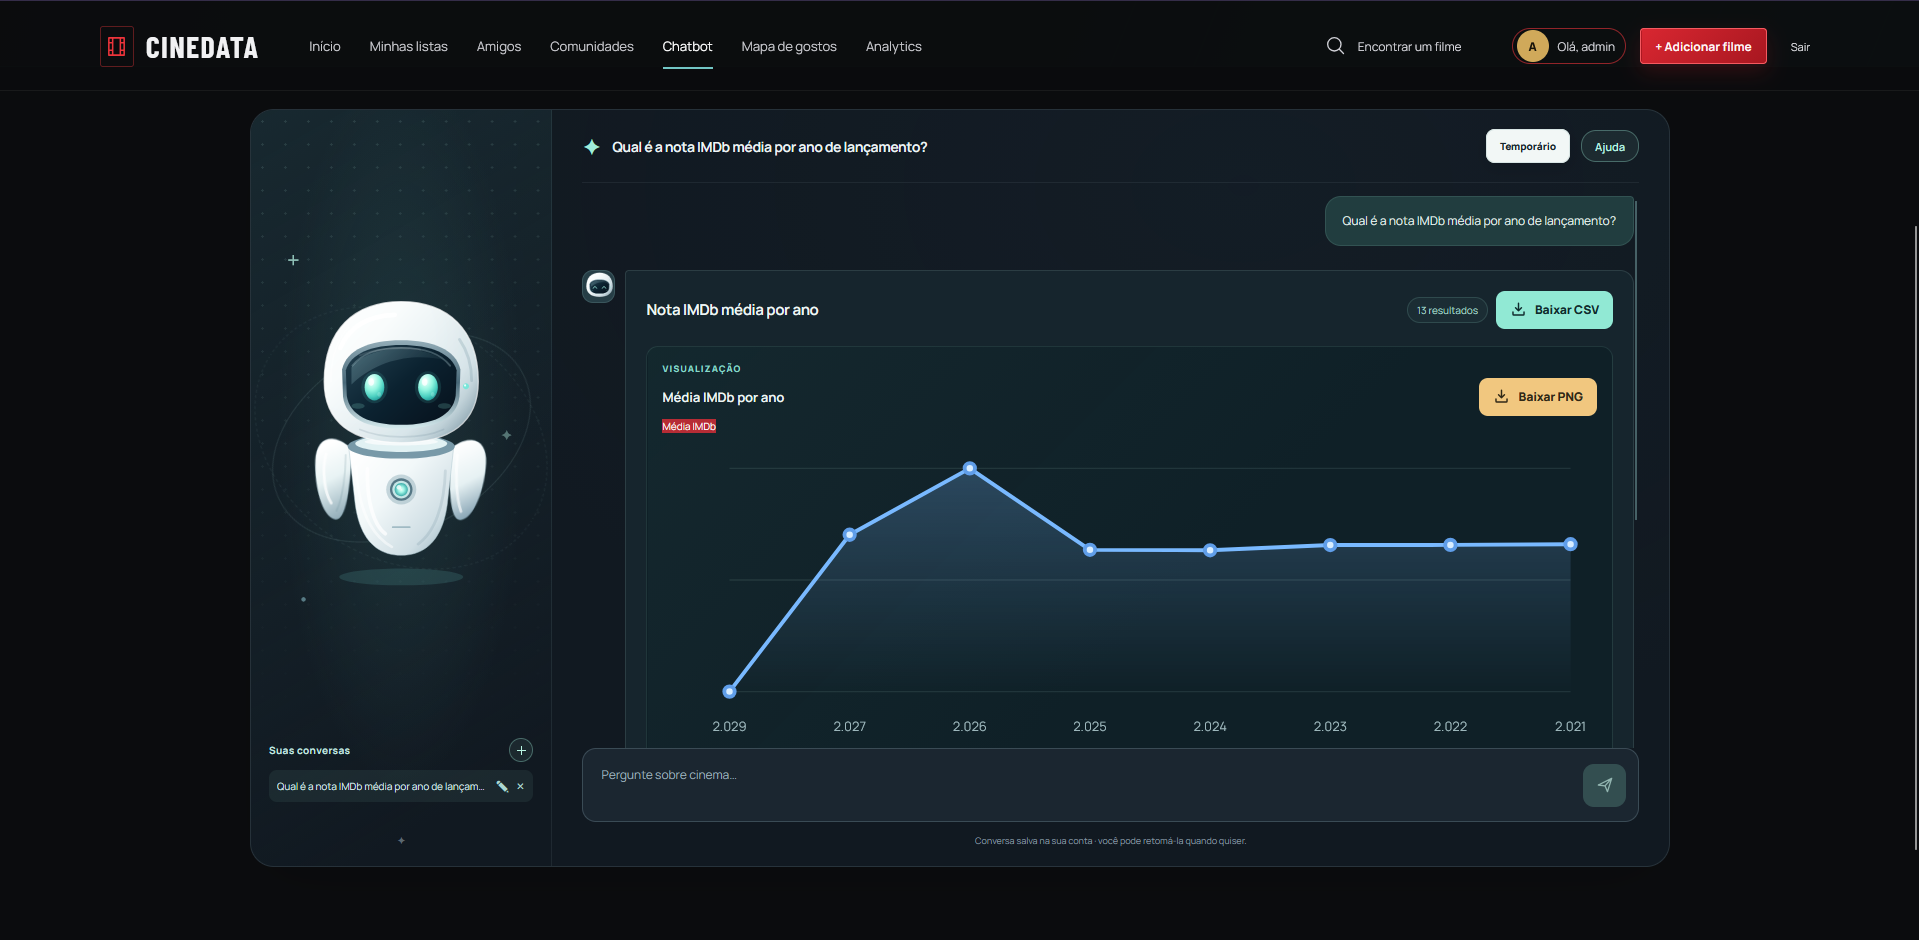
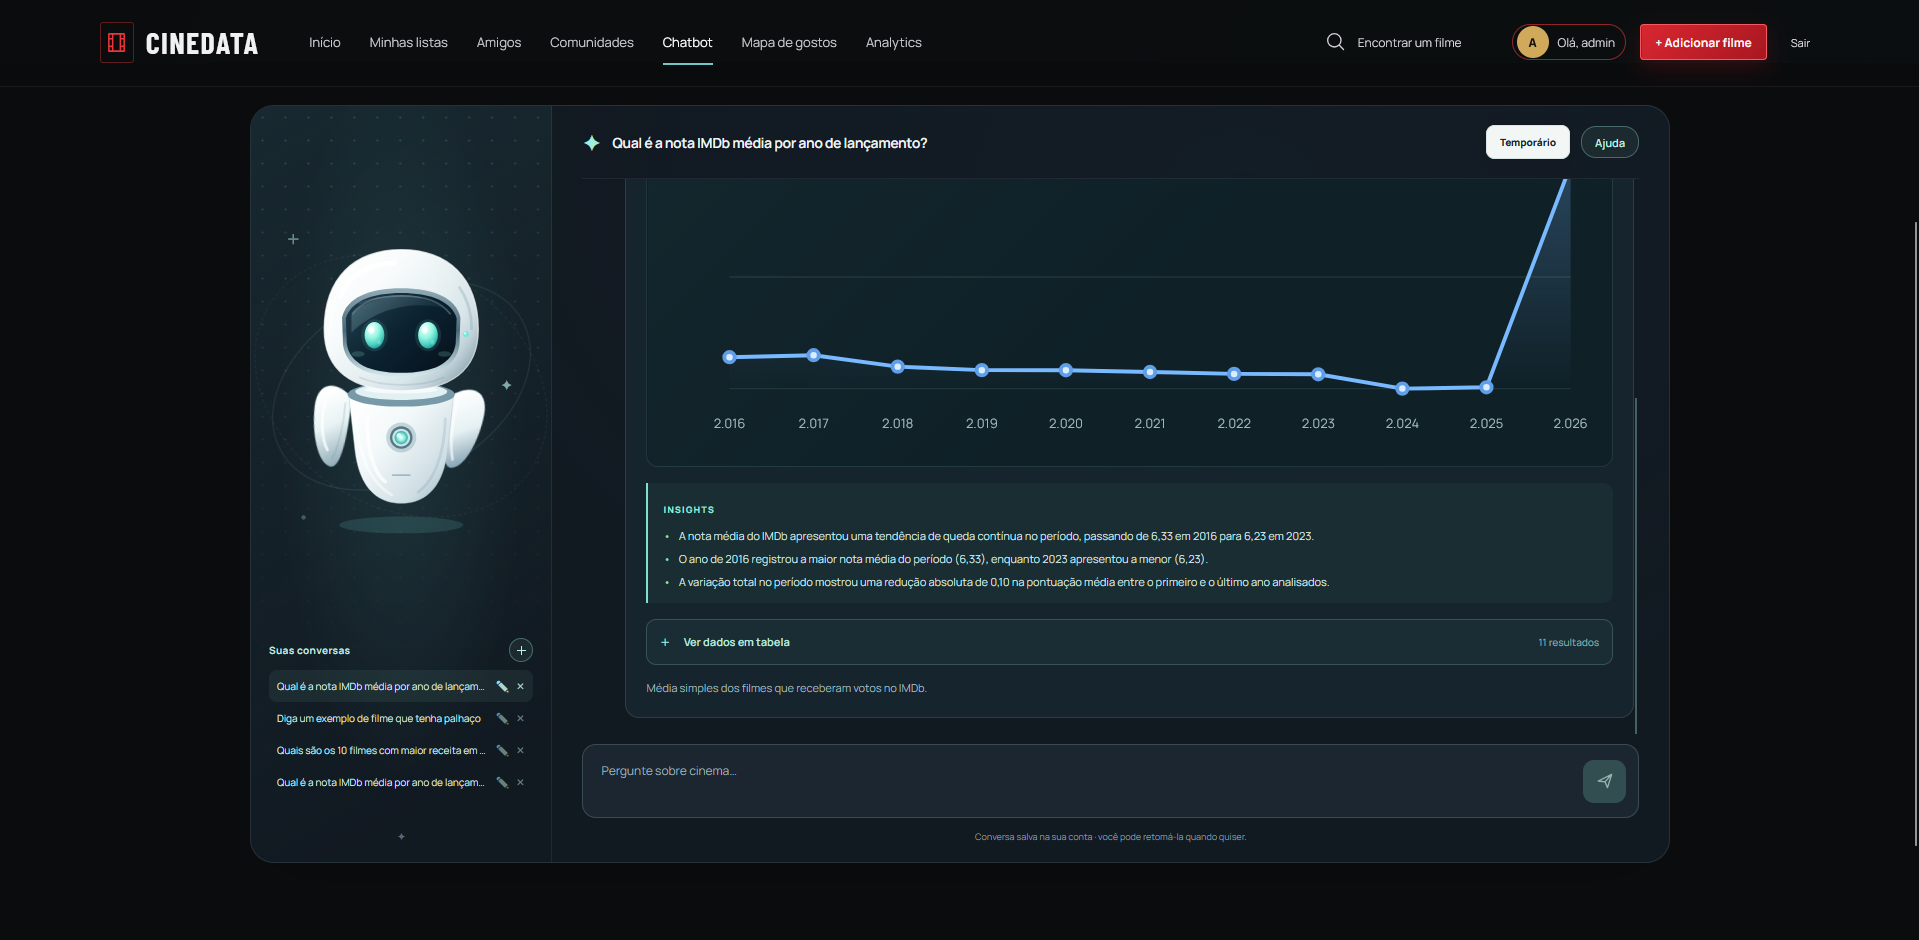
fix(genai): corrige série histórica da nota IMDb
- exclui lançamentos futuros da média anual do IMDb
- usa consulta preparada e ordem cronológica para a Q06
- reforça a ordenação e a quantidade de pontos no gráfico de linha
- atualiza referências, regras e cobertura da avaliação

diff --git a/frontend/src/components/ChatbotResultChart.tsx b/frontend/src/components/ChatbotResultChart.tsx
@@ -222,12 +222,16 @@ export function ChatbotResultChart({ metadata, rows }: { metadata: MetadadosGenA
   const [erroExportacao, setErroExportacao] = useState('')
   if (!spec) return null
   const specForExport = spec
+  const maxPontos = spec.tipo === 'linha' ? 16 : 8
   const pontos = rows.flatMap((row) => {
     const valor = numero(row[spec.colunaValor])
     if (valor === null || row[spec.colunaRotulo] === undefined || row[spec.colunaRotulo] === null) return []
     return [{ rotulo: formatarCelula(spec.colunaRotulo, row[spec.colunaRotulo]), valor }]
-  }).slice(0, 8)
+  }).slice(0, maxPontos)
   if (pontos.length < 2) return null
+  const pontosOrdenados = spec.tipo === 'linha' && spec.colunaRotulo === 'ano_lancamento'
+    ? [...pontos].sort((esquerda, direita) => Number(esquerda.rotulo) - Number(direita.rotulo))
+    : pontos
 
   async function exportarPng() {
     if (!chart.current) return
@@ -248,9 +252,9 @@ export function ChatbotResultChart({ metadata, rows }: { metadata: MetadadosGenA
       <div><strong>{spec.titulo}</strong><button className="chatbot-export-png" type="button" onClick={() => void exportarPng()} disabled={exportando}><svg viewBox="0 0 20 20" fill="none" aria-hidden="true"><path d="M10 2.5v9m0 0 3.5-3.5M10 11.5 6.5 8M3.5 13v2.5c0 .55.45 1 1 1h11c.55 0 1-.45 1-1V13" stroke="currentColor" strokeWidth="1.7" strokeLinecap="round" strokeLinejoin="round" /></svg>{exportando ? 'Gerando…' : 'Baixar PNG'}</button></div>
       <small>{rotuloColuna(spec.colunaValor, metadata)}</small>
     </figcaption>
-    {spec.tipo === 'linha' && <GraficoDeLinha pontos={pontos} spec={spec} />}
-    {spec.tipo === 'barras' && <GraficoDeBarras pontos={pontos} spec={spec} />}
-    {spec.tipo === 'rosca' && <GraficoDeRosca pontos={pontos} spec={spec} />}
+    {spec.tipo === 'linha' && <GraficoDeLinha pontos={pontosOrdenados} spec={spec} />}
+    {spec.tipo === 'barras' && <GraficoDeBarras pontos={pontosOrdenados} spec={spec} />}
+    {spec.tipo === 'rosca' && <GraficoDeRosca pontos={pontosOrdenados} spec={spec} />}
     {spec.tipo === 'dispersao' && <GraficoDeDispersao rows={rows} spec={spec} metadata={metadata} />}
     {rows.length > pontos.length && <p>O gráfico mostra os primeiros {pontos.length} resultados; a tabela contém a lista completa.</p>}
     {erroExportacao && <p className="chatbot-chart-export-error" role="alert">{erroExportacao}</p>}

diff --git a/frontend/src/components/ChatbotResultChart.test.tsx b/frontend/src/components/ChatbotResultChart.test.tsx
@@ -57,4 +57,23 @@ describe('ChatbotResultChart', () => {
     expect(temGraficoDeResultado(genericMetadata, rows)).toBe(true)
     expect(screen.getByRole('img', { name: /Indice personalizado por Categoria/i })).toBeInTheDocument()
   })
+
+  it('organiza a série anual em ordem cronológica mesmo se a resposta chegar invertida', () => {
+    const yearlyMetadata = {
+      ...metadata,
+      query_id: 'Q06',
+      columns: ['ano_lancamento', 'filmes_validos', 'nota_imdb_media'],
+    }
+    const rows = [
+      { ano_lancamento: 2026, filmes_validos: 12, nota_imdb_media: 7.3 },
+      { ano_lancamento: 2024, filmes_validos: 18, nota_imdb_media: 7.1 },
+      { ano_lancamento: 2025, filmes_validos: 15, nota_imdb_media: 7.2 },
+    ]
+
+    const { container } = render(<ChatbotResultChart metadata={yearlyMetadata} rows={rows} />)
+
+    expect(
+      [...container.querySelectorAll('.chatbot-chart-x-label')].map((label) => label.textContent),
+    ).toEqual(['2024', '2025', '2026'])
+  })
 })

diff --git a/genai/tests/test_agent.py b/genai/tests/test_agent.py
@@ -211,6 +211,41 @@ def test_agent_executes_one_tool_call_and_returns_rows(tmp_path) -> None:
     assert "nunca como a quantidade qtd_imdb" in model.calls[0][0][0]["content"]
 
 
+def test_imdb_average_by_year_excludes_future_releases_and_is_chronological(tmp_path) -> None:
+    database_path = tmp_path / "gold.db"
+    today = date.today()
+    past_year = today.year - 2
+    future_year = today.year + 2
+    with sqlite3.connect(database_path) as connection:
+        connection.execute(
+            "CREATE TABLE dim_movies (sk_movie_id TEXT, ano_lancamento INTEGER, data_lancamento TEXT)"
+        )
+        connection.execute(
+            "CREATE TABLE fact_movies_performance (sk_movie_id TEXT, nota_imdb REAL, qtd_imdb INTEGER)"
+        )
+        connection.executemany(
+            "INSERT INTO dim_movies VALUES (?, ?, ?)",
+            (
+                ("past", past_year, f"{past_year}-06-15"),
+                ("current", today.year, today.isoformat()),
+                ("future", future_year, f"{future_year}-01-01"),
+            ),
+        )
+        connection.executemany(
+            "INSERT INTO fact_movies_performance VALUES (?, ?, ?)",
+            (("past", 7.0, 10), ("current", 8.0, 20), ("future", 9.0, 30)),
+        )
+    model = FakeModel([])
+
+    response = AgentService(
+        model, GoldQueryExecutor(GoldDatabase(database_path))
+    ).answer("Qual é a nota IMDb média por ano de lançamento?")
+
+    assert [row["ano_lancamento"] for row in response.rows] == [past_year, today.year]
+    assert response.query_id == "Q06"
+    assert model.calls == []
+
+
 def test_agent_sends_only_semantic_context_for_a_follow_up_question(tmp_path) -> None:
     database_path = tmp_path / "gold.db"
     _create_gold_fixture(database_path)

diff --git a/genai/app/agent.py b/genai/app/agent.py
@@ -860,6 +860,19 @@ GROUP BY g.sk_genre_id, g.nome_genero
 ORDER BY total_filmes DESC, g.nome_genero COLLATE NOCASE, g.sk_genre_id"""
 
 
+_IMDB_AVERAGE_BY_YEAR_SQL = """SELECT m.ano_lancamento,
+       COUNT(*) AS filmes_validos,
+       AVG(f.nota_imdb) AS nota_imdb_media
+FROM dim_movies AS m
+JOIN fact_movies_performance AS f USING (sk_movie_id)
+WHERE m.ano_lancamento IS NOT NULL
+  AND m.data_lancamento <= date('now')
+  AND f.nota_imdb IS NOT NULL
+  AND f.qtd_imdb > 0
+GROUP BY m.ano_lancamento
+ORDER BY m.ano_lancamento ASC"""
+
+
 def _top_company_profit_by_year_sql(year: int) -> str:
     """Mantém a consulta de Q11 pequena quando uma continuação troca só o ano."""
 
@@ -1041,6 +1054,11 @@ class AgentService:
             semantic_matches and _REVENUE_INTENT.search(normalized_question)
         )
         evaluation_case = find_evaluation_case(normalized_question)
+        imdb_average_by_year = (
+            not mixed_intent
+            and evaluation_case is not None
+            and evaluation_case.query_id == "Q06"
+        )
         ranking_limit = None if mixed_intent else _popularity_rank_limit(normalized_question)
         director_average = (
             not mixed_intent
@@ -1097,6 +1115,9 @@ class AgentService:
         elif genre_movie_count:
             evaluation_case = get_evaluation_case("Q10")
             query = _GENRE_MOVIE_COUNT_SQL
+            model_seconds = 0.0
+        elif imdb_average_by_year:
+            query = _IMDB_AVERAGE_BY_YEAR_SQL
             model_seconds = 0.0
         elif top_company_count is not None:
             evaluation_case = None

diff --git a/genai/app/evaluation_cases.py b/genai/app/evaluation_cases.py
@@ -83,9 +83,14 @@ MANDATORY_EVALUATIONS: tuple[EvaluationCase, ...] = (
         ("ano_lancamento", "filmes_validos", "nota_imdb_media"),
         metric="média IMDb por ano de lançamento",
         unit="pontuação em escala de 0 a 10",
-        period="anos presentes no Gold",
-        population="filmes com nota_imdb não nula e qtd_imdb positiva",
-        limitations="média simples por filme e quantidade de filmes válidos informada por ano",
+        period="do primeiro lançamento disponível até a data atual",
+        population=(
+            "filmes lançados até a data atual com nota_imdb não nula e qtd_imdb positiva"
+        ),
+        limitations=(
+            "média simples por filme; lançamentos futuros são excluídos e a quantidade "
+            "de filmes válidos é informada por ano"
+        ),
     ),
     EvaluationCase(
         "Q07",

diff --git a/docs/genai/metric-rules.md b/docs/genai/metric-rules.md
@@ -66,7 +66,7 @@ fornecida pela fonte.
 | Maiores margens | Uma linha por filme elegível à margem; ordenar a fração de margem decrescente. |
 | Top 5 mais populares | `popularidade` não nula; zero é mantido como valor. A pontuação do Gold não é uma contagem real de visualizações. |
 | Divergência TMDB/IMDb | Diferença absoluta `ABS(nota_tmdb - nota_imdb)` por filme com ambas as notas não nulas e ambas as contagens de votos positivas. As duas escalas observadas são 0–10. Sem corte mínimo arbitrário de votos; expor as contagens no resultado. |
-| Nota IMDb média por ano | Média simples por filme de `nota_imdb` com `qtd_imdb > 0`, agrupada por `ano_lancamento`; informar total de filmes válidos. `ano_lancamento` coincide com o ano extraído de `data_lancamento` em todos os 95.645 filmes inspecionados. |
+| Nota IMDb média por ano | Média simples por filme de `nota_imdb` com `qtd_imdb > 0`, agrupada por `ano_lancamento` em ordem crescente; informar total de filmes válidos. Considerar somente `data_lancamento` até a data atual, para não misturar lançamentos futuros. `ano_lancamento` coincide com o ano extraído de `data_lancamento` em todos os 95.645 filmes inspecionados. |
 | Ator com mais filmes nos últimos cinco anos | Tipo `Ator`, associação filme-pessoa distinta e data válida dentro da janela móvel. Contar filmes distintos por pessoa. |
 | Diretores com maior nota média (mínimo cinco filmes) | **Decisão adotada porque a pergunta não nomeia a fonte de nota:** usar IMDb (`nota_imdb`) com votos positivos, contar apenas filmes com nota válida e exigir pelo menos cinco filmes válidos por diretor. Uma linha por diretor-filme. |
 | Dupla ator-diretor mais frequente | Contar filmes distintos associados simultaneamente a uma pessoa do tipo `Ator` e outra do tipo `Diretor`; retornar pares no máximo. A frequência é coocorrência nas relações Gold, não prova de crédito principal ou ordem nos créditos. |

diff --git a/docs/genai/evaluation-cases.md b/docs/genai/evaluation-cases.md
@@ -17,7 +17,7 @@ ordenações internas diferentes e ainda produzir o mesmo resultado correto.
 | Q03 | Maiores margens | Q03 | `sk_movie_id`, `titulo`, `margem` |
 | Q04 | Top 5 por popularidade | Q04 | `sk_movie_id`, `titulo`, `popularidade` |
 | Q05 | Divergência TMDB/IMDb | Q05 | `sk_movie_id`, `titulo`, `divergencia`, notas e votos |
-| Q06 | IMDb médio por ano | Q06 | `ano_lancamento`, `filmes_validos`, `nota_imdb_media` |
+| Q06 | IMDb médio por ano até a data atual | Q06 | `ano_lancamento`, `filmes_validos`, `nota_imdb_media` |
 | Q07 | Ator em mais filmes na janela | Q07 | pessoa, nome e `total_filmes` |
 | Q08 | Diretores com maior média IMDb | Q08 | pessoa, filmes válidos e `nota_media` |
 | Q09 | Dupla ator-diretor | Q09 | `ator`, `diretor`, `filmes_em_comum` |
